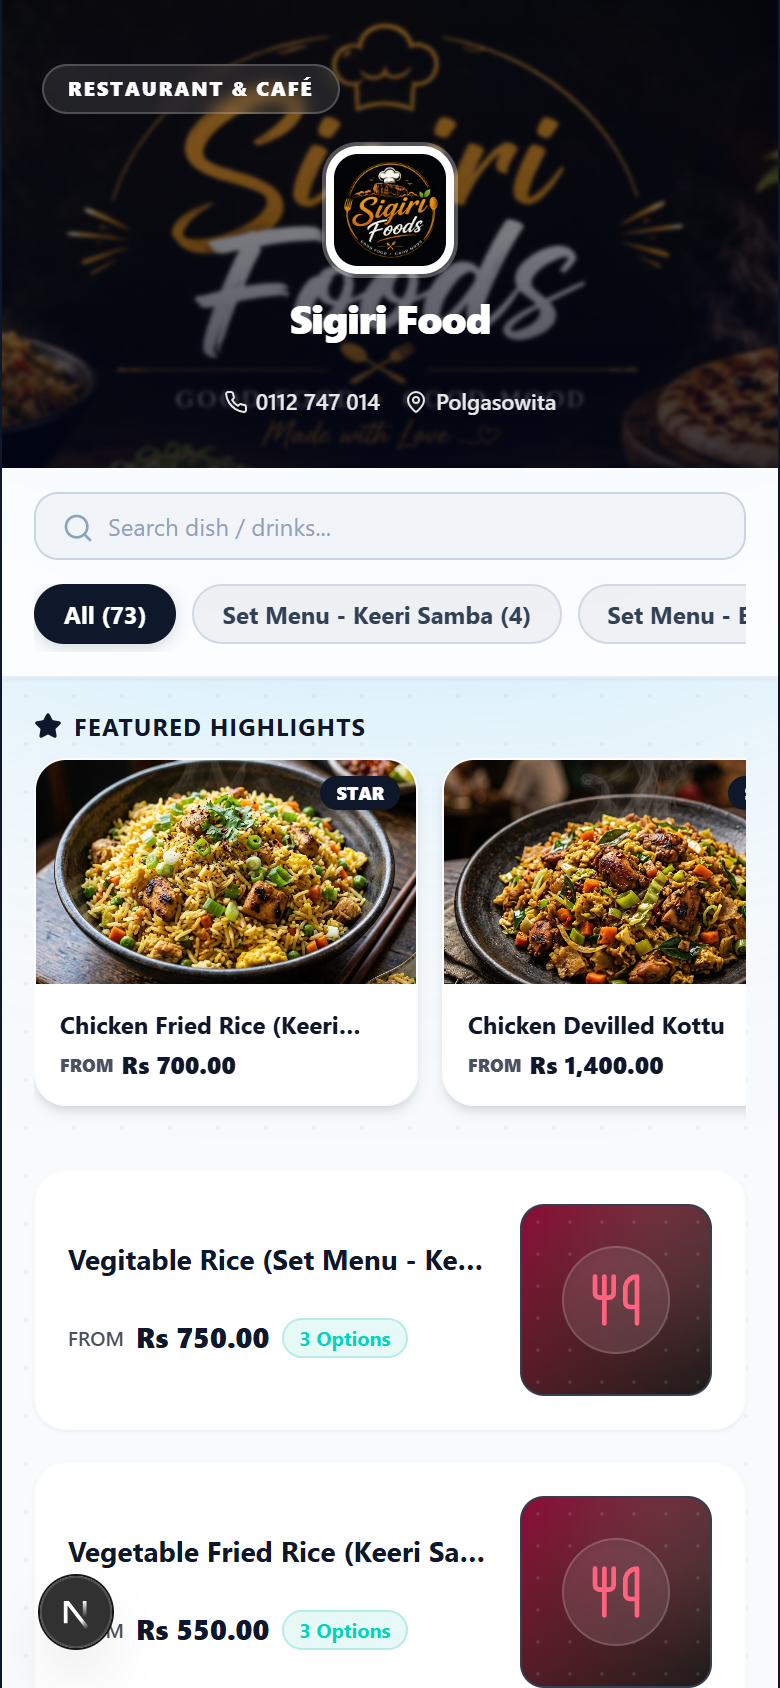
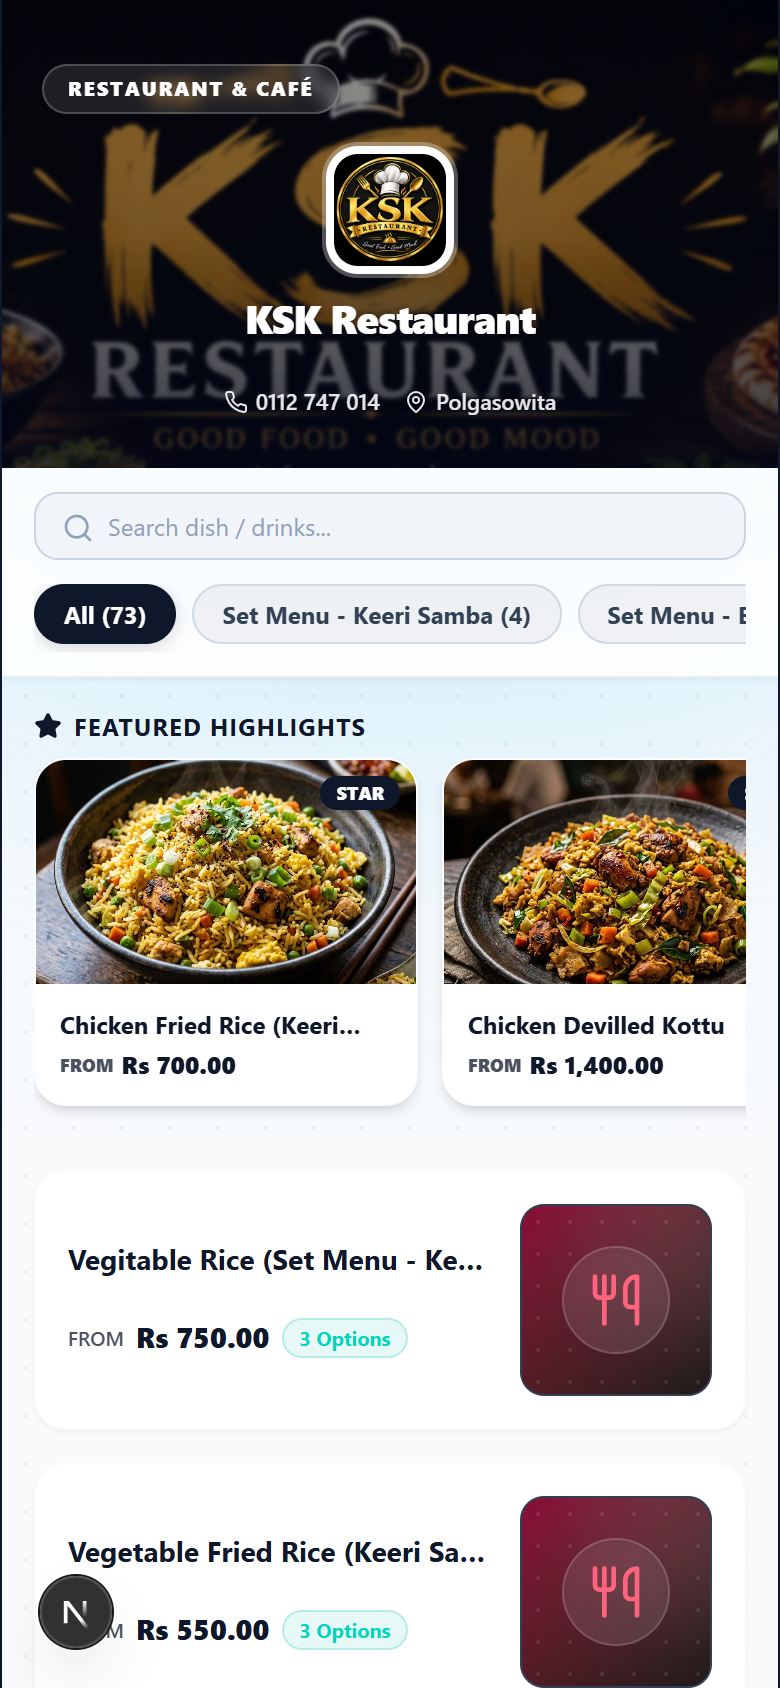
Update homepage prototype preview screenshots with real KSK Restaurant system visuals and enable workspace inspection

Changed region(s): [[0.0, 0.0, 1.0, 0.2773], [0.9538, 0.0308, 1.0, 0.1232], [0.0, 0.0924, 0.0923, 0.154]]

diff --git a/src/app/dashboard/layout.tsx b/src/app/dashboard/layout.tsx
@@ -40,17 +40,41 @@ export default function DashboardLayout({
       setIsSuperAdmin(isSuperAdminUser);
 
       // Fetch user's business workspace
-      const { data: bizData } = await supabase
-        .from('businesses')
-        .select('*')
-        .eq('owner_id', user.id)
-        .order('created_at', { ascending: false })
-        .limit(1)
-        .maybeSingle();
+      let targetBizId: string | null = null;
+      if (typeof window !== 'undefined' && isSuperAdminUser) {
+        const urlParams = new URLSearchParams(window.location.search);
+        targetBizId = urlParams.get('biz') || sessionStorage.getItem('admin_active_biz_id');
+      }
+
+      let bizData: Business | null = null;
+      if (isSuperAdminUser && targetBizId) {
+        const { data: adminSelectedBiz } = await supabase
+          .from('businesses')
+          .select('*')
+          .eq('id', targetBizId)
+          .maybeSingle();
+        if (adminSelectedBiz) {
+          bizData = adminSelectedBiz as Business;
+          if (typeof window !== 'undefined') {
+            sessionStorage.setItem('admin_active_biz_id', targetBizId);
+          }
+        }
+      }
+
+      if (!bizData) {
+        const { data: userBiz } = await supabase
+          .from('businesses')
+          .select('*')
+          .eq('owner_id', user.id)
+          .order('created_at', { ascending: false })
+          .limit(1)
+          .maybeSingle();
+        bizData = userBiz as Business | null;
+      }
 
       if (bizData) {
-        // Ensure Super Admin account has Unlimited Enterprise features
-        if (isSuperAdminUser && bizData.subscription_plan !== 'enterprise') {
+        // Ensure Super Admin personal account has Unlimited Enterprise features
+        if (isSuperAdminUser && bizData.owner_id === user.id && bizData.subscription_plan !== 'enterprise') {
           const { data: updatedBiz } = await supabase
             .from('businesses')
             .update({

diff --git a/src/app/admin/page.tsx b/src/app/admin/page.tsx
@@ -3,7 +3,7 @@
 import React, { useEffect, useState } from 'react';
 import Link from 'next/link';
 import { 
-  Building2, Search, Filter, ShieldCheck, CheckCircle2, AlertCircle, Calendar, Crown, ExternalLink, RefreshCw, Zap, DollarSign, BarChart3, QrCode, Eye, Smartphone, TrendingUp, Users, AlertTriangle, ArrowRight, BarChart2, Sparkles 
+  Building2, Search, Filter, ShieldCheck, CheckCircle2, AlertCircle, Calendar, Crown, ExternalLink, RefreshCw, Zap, DollarSign, BarChart3, QrCode, Eye, Smartphone, TrendingUp, Users, AlertTriangle, ArrowRight, BarChart2, Sparkles, Store 
 } from 'lucide-react';
 import { Button } from '@/components/ui/Button';
 import { Input } from '@/components/ui/Input';
@@ -531,6 +531,14 @@ export default function SuperAdminDashboardPage() {
                           >
                             <BarChart3 className="w-3.5 h-3.5" /> Inspect Analytics
                           </Button>
+
+                          <Link
+                            href={`/dashboard?biz=${biz.id}`}
+                            className="inline-flex items-center gap-1 px-2.5 py-1.5 rounded-lg border border-teal-500/40 text-teal-300 hover:bg-teal-950/40 text-xs font-semibold transition-colors"
+                            title="Open Business Studio Workspace"
+                          >
+                            <Store className="w-3.5 h-3.5" /> Manage Studio
+                          </Link>
 
                           <a
                             href={`/c/${biz.slug}`}

diff --git a/src/app/dashboard/page.tsx b/src/app/dashboard/page.tsx
@@ -28,14 +28,35 @@ export default function DashboardOverviewPage() {
         return;
       }
 
-      // Fetch active user business
-      const { data: biz } = await supabase
-        .from('businesses')
-        .select('*')
-        .eq('owner_id', user.id)
-        .order('created_at', { ascending: false })
-        .limit(1)
-        .maybeSingle();
+      const { data: adminRpc } = await supabase.rpc('is_super_admin');
+      const isSuperAdminUser = Boolean(adminRpc);
+
+      let targetBizId: string | null = null;
+      if (typeof window !== 'undefined' && isSuperAdminUser) {
+        const urlParams = new URLSearchParams(window.location.search);
+        targetBizId = urlParams.get('biz') || sessionStorage.getItem('admin_active_biz_id');
+      }
+
+      let biz: Business | null = null;
+      if (isSuperAdminUser && targetBizId) {
+        const { data: adminSelectedBiz } = await supabase
+          .from('businesses')
+          .select('*')
+          .eq('id', targetBizId)
+          .maybeSingle();
+        biz = adminSelectedBiz as Business | null;
+      }
+
+      if (!biz) {
+        const { data: userBiz } = await supabase
+          .from('businesses')
+          .select('*')
+          .eq('owner_id', user.id)
+          .order('created_at', { ascending: false })
+          .limit(1)
+          .maybeSingle();
+        biz = userBiz as Business | null;
+      }
 
       if (biz) {
         setBusiness(biz as Business);

diff --git a/src/app/dashboard/analytics/page.tsx b/src/app/dashboard/analytics/page.tsx
@@ -76,9 +76,36 @@ export default function DashboardAnalyticsPage() {
       }
 
       const { data: adminRpc } = await supabase.rpc('is_super_admin');
-      setIsSuperAdmin(Boolean(adminRpc));
+      const isSuperAdminUser = Boolean(adminRpc);
+      setIsSuperAdmin(isSuperAdminUser);
 
-      const { data: biz } = await supabase.from('businesses').select('*').eq('owner_id', user.id).single();
+      let targetBizId: string | null = null;
+      if (typeof window !== 'undefined' && isSuperAdminUser) {
+        const urlParams = new URLSearchParams(window.location.search);
+        targetBizId = urlParams.get('biz') || sessionStorage.getItem('admin_active_biz_id');
+      }
+
+      let biz: Business | null = null;
+      if (isSuperAdminUser && targetBizId) {
+        const { data: adminSelectedBiz } = await supabase
+          .from('businesses')
+          .select('*')
+          .eq('id', targetBizId)
+          .maybeSingle();
+        biz = adminSelectedBiz as Business | null;
+      }
+
+      if (!biz) {
+        const { data: userBiz } = await supabase
+          .from('businesses')
+          .select('*')
+          .eq('owner_id', user.id)
+          .order('created_at', { ascending: false })
+          .limit(1)
+          .maybeSingle();
+        biz = userBiz as Business | null;
+      }
+
       if (biz) {
         setBusiness(biz as Business);
         const data = await getAnalyticsSummary(biz.id, filterOption);

diff --git a/src/app/dashboard/qr-code/page.tsx b/src/app/dashboard/qr-code/page.tsx
@@ -40,9 +40,36 @@ export default function DashboardQrCodePage() {
       }
 
       const { data: adminRpc } = await supabase.rpc('is_super_admin');
-      setIsSuperAdmin(Boolean(adminRpc));
+      const isSuperAdminUser = Boolean(adminRpc);
+      setIsSuperAdmin(isSuperAdminUser);
 
-      const { data: biz } = await supabase.from('businesses').select('*').eq('owner_id', user.id).single();
+      let targetBizId: string | null = null;
+      if (typeof window !== 'undefined' && isSuperAdminUser) {
+        const urlParams = new URLSearchParams(window.location.search);
+        targetBizId = urlParams.get('biz') || sessionStorage.getItem('admin_active_biz_id');
+      }
+
+      let biz: Business | null = null;
+      if (isSuperAdminUser && targetBizId) {
+        const { data: adminSelectedBiz } = await supabase
+          .from('businesses')
+          .select('*')
+          .eq('id', targetBizId)
+          .maybeSingle();
+        biz = adminSelectedBiz as Business | null;
+      }
+
+      if (!biz) {
+        const { data: userBiz } = await supabase
+          .from('businesses')
+          .select('*')
+          .eq('owner_id', user.id)
+          .order('created_at', { ascending: false })
+          .limit(1)
+          .maybeSingle();
+        biz = userBiz as Business | null;
+      }
+
       if (biz) setBusiness(biz as Business);
       setLoading(false);
     }

diff --git a/src/app/dashboard/items/page.tsx b/src/app/dashboard/items/page.tsx
@@ -119,13 +119,35 @@ export default function DashboardItemsPage() {
       return;
     }
 
-    const { data: biz } = await supabase
-      .from('businesses')
-      .select('*')
-      .eq('owner_id', user.id)
-      .order('created_at', { ascending: false })
-      .limit(1)
-      .maybeSingle();
+    const { data: adminRpc } = await supabase.rpc('is_super_admin');
+    const isSuperAdminUser = Boolean(adminRpc);
+
+    let targetBizId: string | null = null;
+    if (typeof window !== 'undefined' && isSuperAdminUser) {
+      const urlParams = new URLSearchParams(window.location.search);
+      targetBizId = urlParams.get('biz') || sessionStorage.getItem('admin_active_biz_id');
+    }
+
+    let biz: Business | null = null;
+    if (isSuperAdminUser && targetBizId) {
+      const { data: adminSelectedBiz } = await supabase
+        .from('businesses')
+        .select('*')
+        .eq('id', targetBizId)
+        .maybeSingle();
+      biz = adminSelectedBiz as Business | null;
+    }
+
+    if (!biz) {
+      const { data: userBiz } = await supabase
+        .from('businesses')
+        .select('*')
+        .eq('owner_id', user.id)
+        .order('created_at', { ascending: false })
+        .limit(1)
+        .maybeSingle();
+      biz = userBiz as Business | null;
+    }
 
     if (biz) {
       setBusiness(biz as Business);
